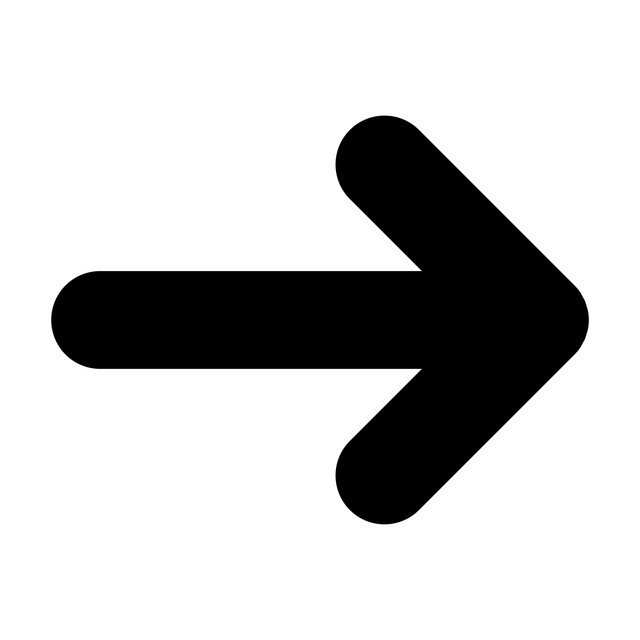
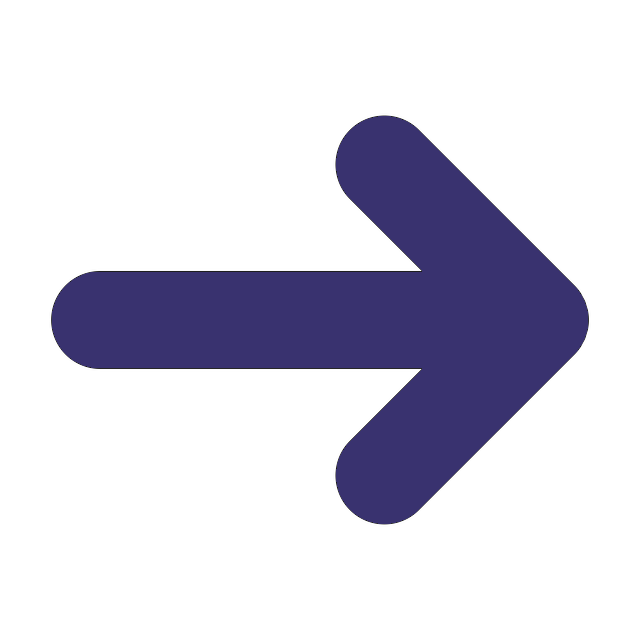
changed color of player.png in order to work on black background

Changed region(s): [[0.0625, 0.1562, 0.9375, 0.8438]]

diff --git a/src/main/java/inf112/skeleton/app/Visuals/PendingCardsGUI.java b/src/main/java/inf112/skeleton/app/Visuals/PendingCardsGUI.java
@@ -91,8 +91,8 @@ public class PendingCardsGUI {
     private void addPlayerImageToStage(TextureRegion playerTexture, int yPos) {
         playerTexture.flip(false, true);
         Image image = new Image(playerTexture);
-        image.setSize(50, 50);
-        image.setPosition(117, yPos);
+        image.setSize(40, 40);
+        image.setPosition(107, yPos+10);
         stage.addActor(image);
     }
 
